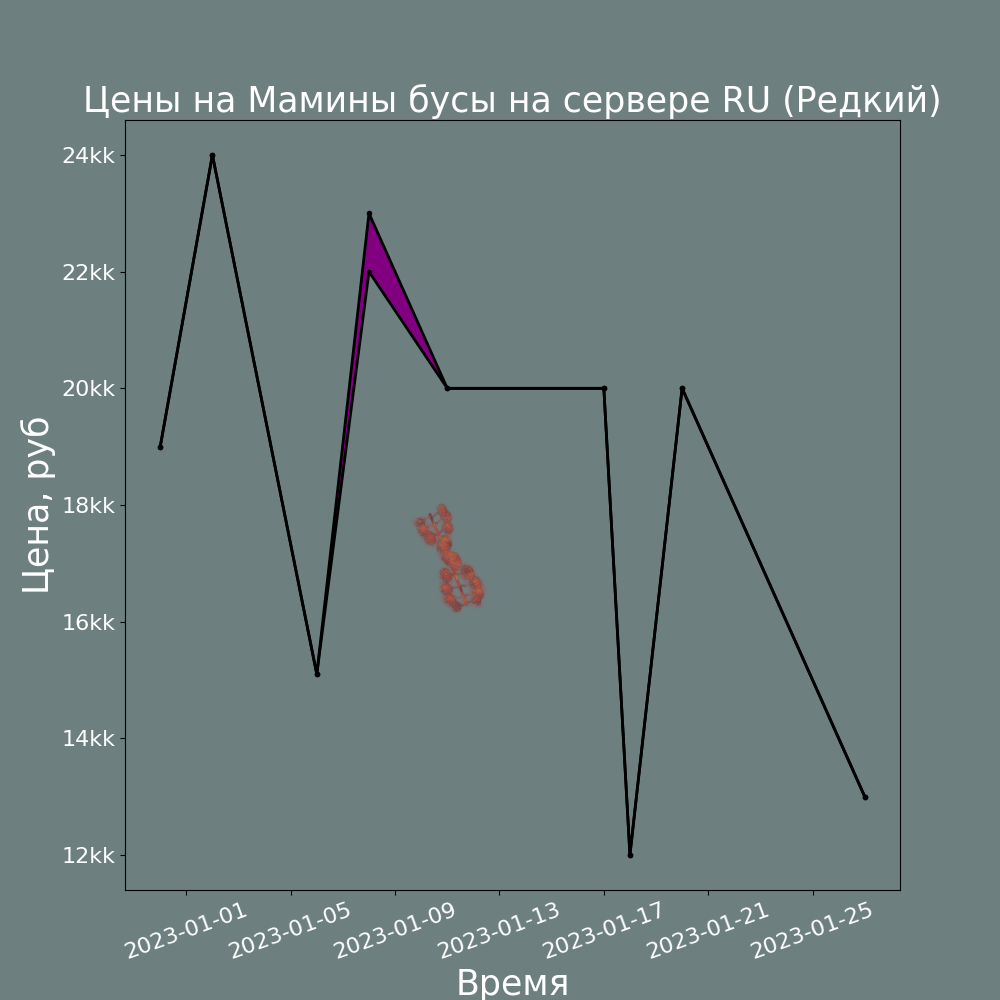
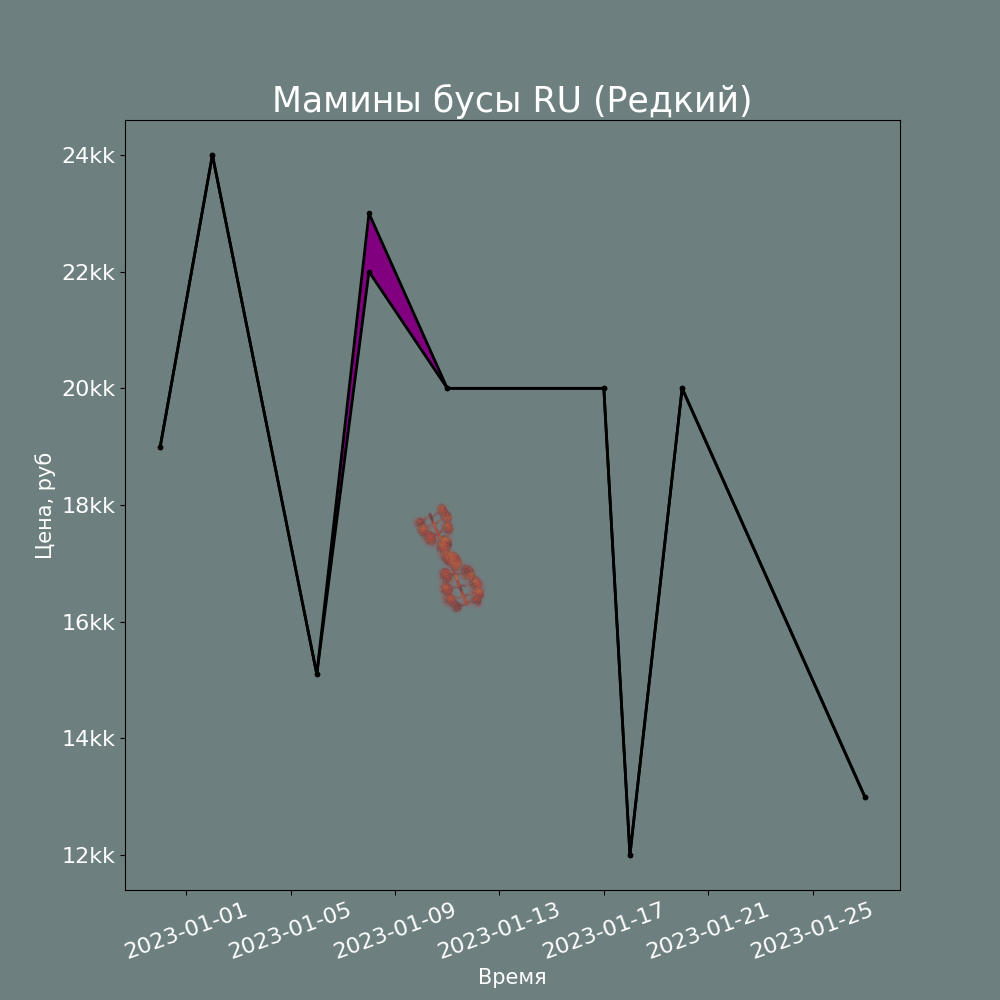
fix

Changed region(s): [[0.093, 0.062, 0.93, 0.124], [0.434, 0.961, 0.589, 1.0], [0.031, 0.403, 0.062, 0.589]]

diff --git a/worse.py b/worse.py
@@ -218,23 +218,23 @@ async def get_history(item_id: str, server: str, lang: str, item_name: str, imag
             xlab = plt.xlabel('Time')
             ylab = plt.ylabel('Price, rub')
             if it_artefact:
-                title = plt.title(f'Price of {item_name} on server {server} ({qlt[lang][a]})')
+                title = plt.title(f'{item_name} {server} ({qlt[lang][a]})')
             else:
-                title = plt.title(f'Price of {item_name} on server {server}')
+                title = plt.title(f'{item_name} {server}')
         elif lang == "uk":
             plt.xlabel('Час')
             ylab = plt.ylabel('Ціна, руб')
             if it_artefact:
-                title = plt.title(f'Ціна на {item_name} на сервері {server} ({qlt[lang][a]})')
+                title = plt.title(f'{item_name} {server} ({qlt[lang][a]})')
             else:
-                title = plt.title(f'Ціна на {item_name} на сервері {server}')
+                title = plt.title(f'{item_name} {server}')
         else:
             xlab = plt.xlabel('Время')
             ylab = plt.ylabel('Цена, руб')
             if it_artefact:
-                title = plt.title(f'Цены на {item_name} на сервере {server} ({qlt[lang][a]})')
+                title = plt.title(f'{item_name} {server} ({qlt[lang][a]})')
             else:
-                title = plt.title(f'Цены на {item_name} на сервере {server}')
+                title = plt.title(f'{item_name} {server}')
         xlab.set_color(text_color)
         ylab.set_color(text_color)
         title.set_color(text_color)
